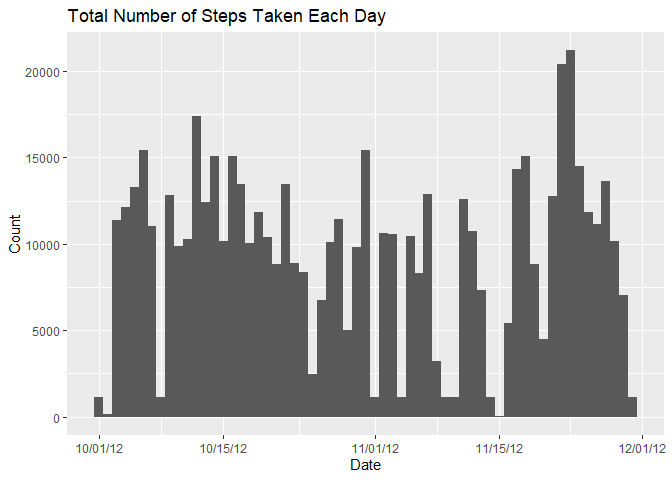
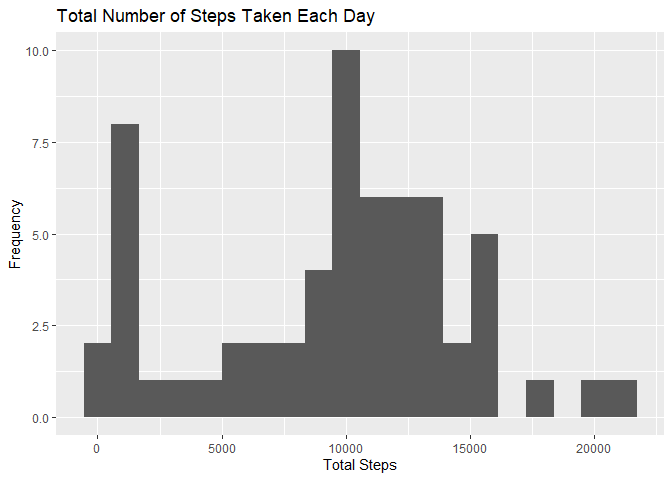
histogram generation updated

diff --git a/PA1_template.html b/PA1_template.html
@@ -387,11 +387,10 @@ df$date &lt;- as.Date(df$date)</code></pre>
 dfSum &lt;- df %&gt;% group_by(date) %&gt;% 
       summarize(TotSteps = sum(steps, na.rm = TRUE)) 
 
-ggplot(dfSum, aes(x = date, y= TotSteps)) +
-  geom_bar(stat = &quot;identity&quot;, width = 1) +
-  scale_x_date(date_labels = &quot;%D&quot;) +
-  labs(x = &quot;Date&quot;, y = &quot;Count&quot;, title = &quot;Total Number of Steps Taken Each Day&quot;)</code></pre>
[1 lines of base64/hex data omitted]
+ggplot(dfSum, aes(x = TotSteps)) +
+  geom_histogram(bins = 20) +
+  labs(x = &quot;Total Steps&quot;, y = &quot;Frequency&quot;, title = &quot;Total Number of Steps Taken Each Day&quot;)</code></pre>
[1 lines of base64/hex data omitted]
 <pre class="r"><code>MeanTotSteps &lt;- mean(dfSum$TotSteps)
 MedianTotSteps &lt;- median(dfSum$TotSteps)</code></pre>
 <p>The mean of the total number of steps taken per day: 9354.2295082<br />
@@ -439,11 +438,10 @@ dfImputed &lt;- select(dfImputed, -MedSteps)
 dfSum &lt;- dfImputed %&gt;% group_by(date) %&gt;% 
       summarize(TotSteps = sum(steps)) 
 
-ggplot(dfSum, aes(x = date, y= TotSteps)) +
-      geom_bar(stat = &quot;identity&quot;, width = 1) +
-      scale_x_date(date_labels = &quot;%D&quot;) +
-      labs(x = &quot;Date&quot;, y = &quot;Count&quot;, title = &quot;Total Number of Steps Taken Each Day&quot;)</code></pre>
[1 lines of base64/hex data omitted]
+ggplot(dfSum, aes(x = TotSteps)) +
+  geom_histogram(bins = 20) +
+  labs(x = &quot;Total Steps&quot;, y = &quot;Frequency&quot;, title = &quot;Total Number of Steps Taken Each Day&quot;)</code></pre>
[1 lines of base64/hex data omitted]
 <pre class="r"><code>MeanTotStepsImputed &lt;- mean(dfSum$TotSteps)
 MedianTotStepsImputed &lt;- median(dfSum$TotSteps)
 

diff --git a/PA1_template.md b/PA1_template.md
@@ -44,10 +44,9 @@ library(ggplot2)
 dfSum <- df %>% group_by(date) %>% 
       summarize(TotSteps = sum(steps, na.rm = TRUE)) 
 
-ggplot(dfSum, aes(x = date, y= TotSteps)) +
-  geom_bar(stat = "identity", width = 1) +
-  scale_x_date(date_labels = "%D") +
-  labs(x = "Date", y = "Count", title = "Total Number of Steps Taken Each Day")
+ggplot(dfSum, aes(x = TotSteps)) +
+  geom_histogram(bins = 20) +
+  labs(x = "Total Steps", y = "Frequency", title = "Total Number of Steps Taken Each Day")
 ```
 
 ![](PA1_template_files/figure-html/unnamed-chunk-2-1.png)<!-- -->
@@ -120,10 +119,9 @@ dfImputed <- select(dfImputed, -MedSteps)
 dfSum <- dfImputed %>% group_by(date) %>% 
       summarize(TotSteps = sum(steps)) 
 
-ggplot(dfSum, aes(x = date, y= TotSteps)) +
-      geom_bar(stat = "identity", width = 1) +
-      scale_x_date(date_labels = "%D") +
-      labs(x = "Date", y = "Count", title = "Total Number of Steps Taken Each Day")
+ggplot(dfSum, aes(x = TotSteps)) +
+  geom_histogram(bins = 20) +
+  labs(x = "Total Steps", y = "Frequency", title = "Total Number of Steps Taken Each Day")
 ```
 
 ![](PA1_template_files/figure-html/unnamed-chunk-4-1.png)<!-- -->
